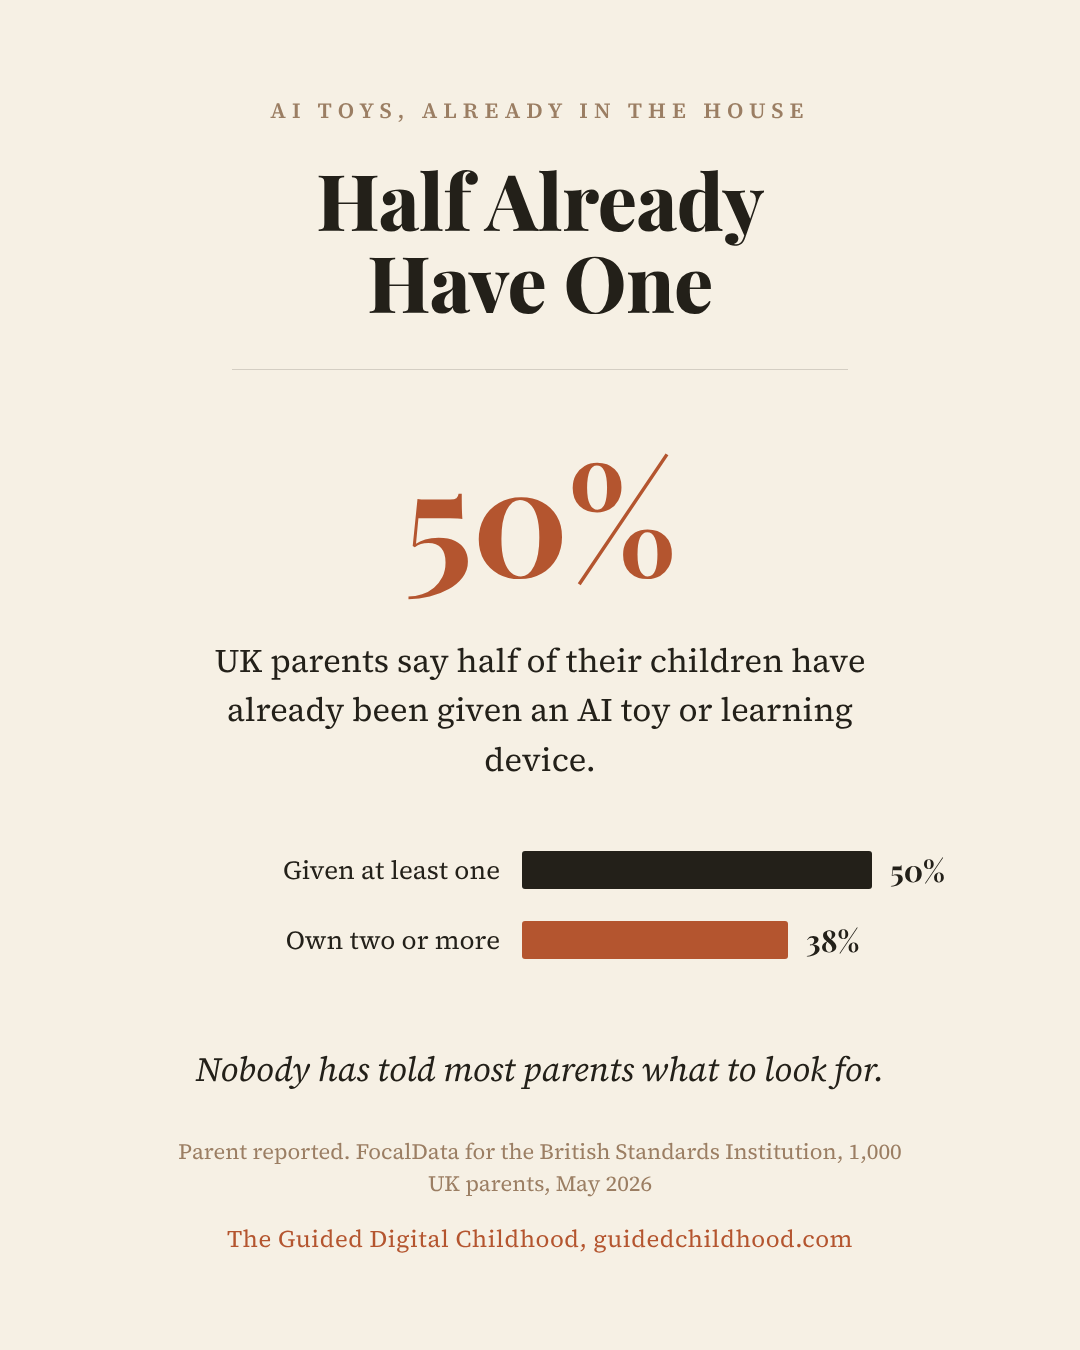
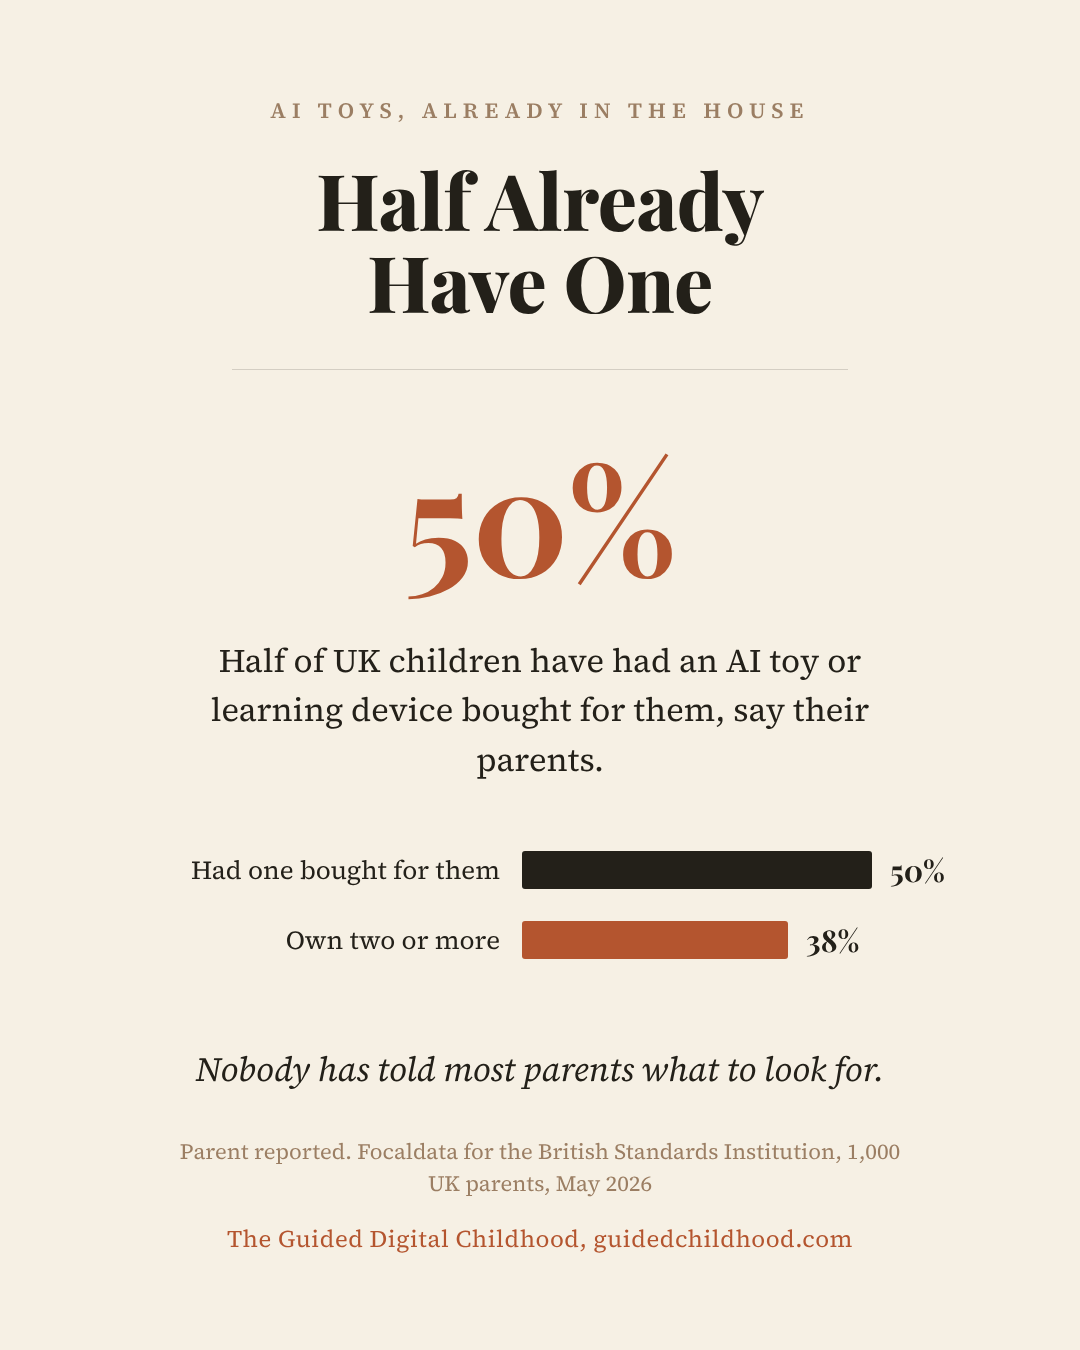
LinkedIn cards: 047 worded to v3, running order follows the Monday pass
The Monday pass revised 047 to v3 (bought for them, Focaldata) and planned
047, 046, 045 for the week with 048 as a spare. The 047 card now matches v3,
the Monday pack points at the finished 047 and 046 cards, and the README
follows its running order. 045 still needs a card.

Claude-Session: https://claude.ai/code/session_014MKeZbd6oAo4Uz1yqc6WB3

Changed region(s): [[0.1833, 0.4667, 0.7944, 0.5911], [0.1833, 0.84, 0.825, 0.8711], [0.1833, 0.6222, 0.4583, 0.6533]]

diff --git a/content/packs/2026-11-09-cards/gdc-047-card.html b/content/packs/2026-11-09-cards/gdc-047-card.html
@@ -77,13 +77,13 @@
     <h1 class="headline">Half Already<br>Have One</h1>
     <div class="rule"></div>
     <div class="hero">50%</div>
-    <p class="caption">UK parents say half of their children have already been given an AI toy or learning device.</p>
+    <p class="caption">Half of UK children have had an AI toy or learning device bought for them, say their parents.</p>
     <div class="bars">
-      <div class="bar-row"><span class="bar-label">Given at least one</span><span class="bar-track"><span class="bar big" style="width:350px"></span><span class="bar-val">50%</span></span></div>
+      <div class="bar-row"><span class="bar-label">Had one bought for them</span><span class="bar-track"><span class="bar big" style="width:350px"></span><span class="bar-val">50%</span></span></div>
       <div class="bar-row"><span class="bar-label">Own two or more</span><span class="bar-track"><span class="bar small" style="width:266px"></span><span class="bar-val">38%</span></span></div>
     </div>
     <p class="kicker">Nobody has told most parents what to look for.</p>
-    <p class="source">Parent reported. FocalData for the British Standards Institution, 1,000 UK parents, May 2026</p>
+    <p class="source">Parent reported. Focaldata for the British Standards Institution, 1,000 UK parents, May 2026</p>
     <p class="footer">The Guided Digital Childhood, guidedchildhood.com</p>
   </div>
 </body>

diff --git a/content/packs/2026-11-09-cards/README.md b/content/packs/2026-11-09-cards/README.md
@@ -1,32 +1,31 @@
-# The week of 9 November: three cards and the running order
+# The week of 9 November: the cards
 
-Picked by the `post-picker` agent on 7 November from what was already written,
-after Justin's 7 day screenshot showed nine posts in the week before. Justin
-thinks 047 and 049 are already scheduled, so the week is those two plus 046 and
-048, four posts with no two on the same day.
+The running order is the Monday LinkedIn pass's
+(`content/packs/2026-11-09-linkedin-week/linkedin.md`), which is newer than the
+post-picker's Saturday read and wins:
 
-| Post | Card | Copy from |
+| Day | Post | Card |
 |---|---|---|
-| 047 Half of UK children have an AI toy (scheduled) | `gdc-047-card.png`, 50% | `content/packs/2026-11-05-unposted-scrutiny/linkedin.md` |
-| 049 Twenty five thousand teenagers (scheduled) | none, text | same pack |
-| 046 The age is the easy part, Wednesday 11 | `../2026-10-23-readiness-test/gdc-046-card.png`, re-rendered in the real fonts | `content/packs/2026-10-23-readiness-test/linkedin.md` |
-| 048 The chatbot confidant, Friday 13 | `gdc-048-card.png`, 12% | `content/packs/2026-11-05-unposted-scrutiny/linkedin.md` |
+| Mon 9 | 047 Half of UK children have an AI toy (v3) | `gdc-047-card.png`, 50%, worded to v3: "bought for them", Focaldata |
+| Wed 11 | 046 The age is the easy part | `../2026-10-23-readiness-test/gdc-046-card.png`, re-rendered in the real fonts |
+| Fri 13 | 045 Fear is the engine on both sides now | **still needs one**, "52.4 to 42.1 percent" per the Monday pass |
+| spare | 048 The chatbot confidant | `gdc-048-card.png`, 12%, ready for whenever it goes |
 
-**If 047 is scheduled without an image,** edit the scheduled post and attach
-`gdc-047-card.png`. Nine of the ten unposted posts had no image, and the best
-post of the year was a card.
+**If 047 was scheduled before 9 November,** it carries the v2 wording ("been
+given") and no image. The v3 text in the Monday pack is the corrected one, so
+edit the scheduled post to v3 and attach `gdc-047-card.png`.
 
 **049's scheduled copy** may predate the 6 November fix that sits only in the
 10-26 pack ("followed the same young people for three years"). Worth one look
 before it goes.
 
-**Next after these:** 025, Europe drew a staircase. The consultation closes 26
-November, so it goes by Thursday 19, and "six weeks" and "just" need changing.
+**025, Europe drew a staircase,** goes by Thursday 19 November (consultation
+closes 26 November); "six weeks" and "just" need changing first.
 
 ## The cards
 
-Every number on them was checked against its source by the citation verifier
-on 26 October: BSI and FocalData for 047 (parent reported, which the card says),
-Pew for 048 (US only, which the card says). Same research card system as the
-beta = 0.061 post. Source in the `.html` beside each PNG; re-render with
+047's figures are the BSI and Focaldata numbers re-verified for v3 on 9 November
+(parent reported, which the card says). 048's are Pew, confirmed 26 October (US
+only, which the card says). Same research card system as the beta = 0.061 post.
+Source in the `.html` beside each PNG; re-render with
 `node .claude/skills/viral-post/render-card.js gdc-047-card.html gdc-047-card.png`.

diff --git a/content/packs/2026-11-09-linkedin-week/linkedin.md b/content/packs/2026-11-09-linkedin-week/linkedin.md
@@ -39,8 +39,8 @@ it needs a slot the week of 16 November. Held (source unread): 050, 051, 052.
 
 # GDC-047 · Half of UK children have an AI toy (v3, 9 Nov)
 
-**Job:** recruit strangers. **Plan:** Mon 9 Nov. **Card:** needs one, "50 percent",
-with "38 percent own two or more" underneath.
+**Job:** recruit strangers. **Plan:** Mon 9 Nov. **Card:** `content/packs/2026-11-09-cards/gdc-047-card.png`, "50%" with
+"38% own two or more" underneath, worded to v3 ("bought for them", Focaldata).
 
 ## Post
 
@@ -80,7 +80,7 @@ Figures traced by citation-verifier 9 Nov. Dashes: checked below. No founder sce
 
 # GDC-046 · The age is the easy part (unchanged, Justin's own register)
 
-**Job:** start an argument. **Plan:** Wed 11 Nov. **Card:** `content/packs/2026-10-23-readiness-test/gdc-046-card.png` (13, 16, 18; fell back to Georgia, re-render for the intended face).
+**Job:** start an argument. **Plan:** Wed 11 Nov. **Card:** `content/packs/2026-10-23-readiness-test/gdc-046-card.png` (13, 16, 18; re-rendered 9 Nov in the real Playfair Display and Source Serif 4).
 
 Do not add contractions. He wrote it that way on purpose.
 
